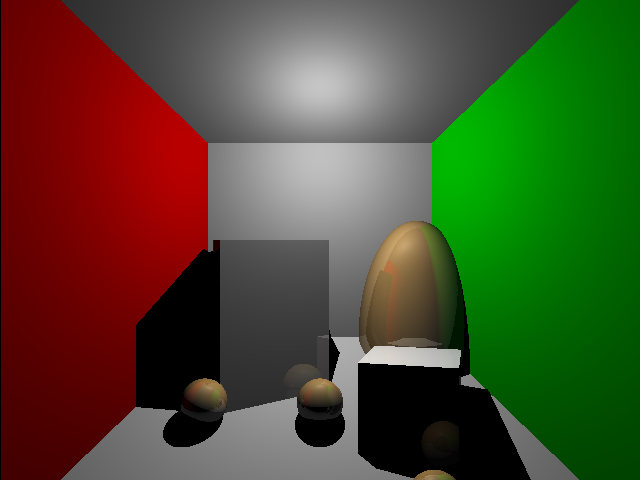
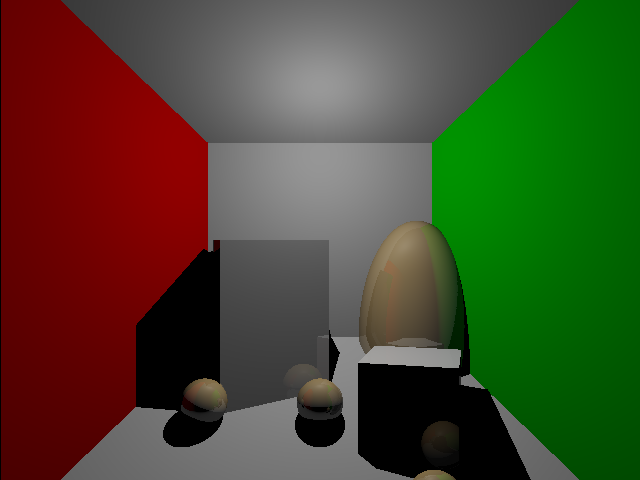
Work in progress: Nishita's atmoshpere rendering

diff --git a/Vertex Raytracer/Raytracer/src/Raytracer.cpp b/Vertex Raytracer/Raytracer/src/Raytracer.cpp
@@ -26,8 +26,6 @@ glm::vec3 Raytracer::illuminate(int x_idx, int y_idx, Ray* reflection_ray)
 
     Ray ray = (reflection_ray == nullptr) ? m_scene->cam->rayFromCamera(y_idx, x_idx) : *reflection_ray;
 
-    bool isIntersection = checkSpheresIntersections(ray) | checkTrianglesIntersections(ray);
-
     /* Calculate atmoshperic scattering */
     /** Does the ray intersect the planetory body ? (the intersection test is against the Earth here 
       * not against the atmosphere).If the ray intersects the Earth body and that the intersection is ahead of us,
@@ -37,10 +35,24 @@ glm::vec3 Raytracer::illuminate(int x_idx, int y_idx, Ray* reflection_ray)
       * compute where this primary ray intersects the atmosphere and we limit the max t range  of the ray to
       * the point where it leaves the atmosphere. 
       */
-    // 1) Check if ray intersects with a planet
+    if(m_scene->atmosphere != nullptr)
+    {
+        // 1) Check if ray intersects with a planet
+        float t0, t1, tMax = std::numeric_limits<float>::max();
+        if (ray.checkIntersection(m_scene->atmosphere->planet_radius, t0, t1) && t1 > 0.0f)
+        {
+            tMax = glm::max(0.0f, t0);
+            m_background_color = glm::vec3(1, 0, 0);
+        }
+        else
+        {
+            /* The *viewing or camera ray* is bounded to the range[0:tMax] */
+            // 2) Compute atmosphere's incident light
+            m_background_color = glm::vec3(1, 0, 1);//m_scene->atmosphere->computeIncidentLight(ray, 0, tMax);
+        }
+    }
 
-    /* The *viewing or camera ray* is bounded to the range[0:tMax] */
-    // 2) Compute atmosphere's incident light
+    bool isIntersection = checkSpheresIntersections(ray) | checkTrianglesIntersections(ray);
 
     /* Calculate light */
     if (isIntersection)
@@ -52,7 +64,7 @@ glm::vec3 Raytracer::illuminate(int x_idx, int y_idx, Ray* reflection_ray)
         glm::vec3 light_color      = calcLight      (ray, hit_pos);
         glm::vec3 reflection_color = calcReflections(ray, hit_pos);
 
-        return light_color + reflection_color + m_objects_material.ambient + m_objects_material.emission;
+        return light_color + reflection_color + m_objects_material.ambient + m_objects_material.emission + m_background_color;
     }
 
     /* return background color */

diff --git a/Vertex Raytracer/Raytracer/src/Atmosphere.h b/Vertex Raytracer/Raytracer/src/Atmosphere.h
@@ -6,16 +6,16 @@
 class Atmosphere
 {
 public:
-    Atmosphere(glm::vec3 _sun_direction = glm::vec3(0, 1, 0), 
-               float _earth_radius      = 6360e3,
-               float _atmosphere_radius = 6420e2,
-               float _h_rayleigh        = 7994,
-               float _h_mie             = 1200)
-               : sun_direction    (_sun_direction),
-                 planet_radius    (_earth_radius),
-                 atmosphere_radius(_atmosphere_radius),
-                 h_rayleigh       (_h_rayleigh),
-                 h_mie            (_h_mie) {}
+    explicit Atmosphere(glm::vec3 _sun_direction = glm::vec3(0, 1, 0), 
+                        float _earth_radius      = 6360e3f,
+                        float _atmosphere_radius = 6420e2f,
+                        float _h_rayleigh        = 7994.0f,
+                        float _h_mie             = 1200.0f)
+                        : sun_direction    (glm::normalize(_sun_direction)),
+                          planet_radius    (_earth_radius),
+                          atmosphere_radius(_atmosphere_radius),
+                          h_rayleigh       (_h_rayleigh),
+                          h_mie            (_h_mie) {}
 
     ~Atmosphere() {}
 

diff --git a/Vertex Raytracer/Raytracer/src/Framebuffer.cpp b/Vertex Raytracer/Raytracer/src/Framebuffer.cpp
@@ -70,9 +70,24 @@ void Framebuffer::process(Scene& scene, int left, int right)
 
         glm::vec3 c = raytracer.illuminate(jj, ii);
         
-        color.rgbRed   = static_cast<BYTE>(c.r * 255.0f + 0.5f);
-        color.rgbGreen = static_cast<BYTE>(c.g * 255.0f + 0.5f);
-        color.rgbBlue  = static_cast<BYTE>(c.b * 255.0f + 0.5f);
+        if(!use_tone_mapping)
+        {
+            static float exposure = 1.0f;
+            static float gamma    = 1.2f;
+
+            c = glm::vec3(1.0f) - glm::exp(-c * exposure);
+            c = glm::pow(c, glm::vec3(1.0f / gamma));
+            
+            color.rgbRed   = static_cast<BYTE>(c.r * 255.0f + 0.5f);
+            color.rgbGreen = static_cast<BYTE>(c.g * 255.0f + 0.5f);
+            color.rgbBlue  = static_cast<BYTE>(c.b * 255.0f + 0.5f);
+        }
+        else
+        {
+            color.rgbRed   = static_cast<BYTE>(c.r * 255.0f + 0.5f);
+            color.rgbGreen = static_cast<BYTE>(c.g * 255.0f + 0.5f);
+            color.rgbBlue  = static_cast<BYTE>(c.b * 255.0f + 0.5f);
+        }
 
         FreeImage_SetPixelColor(m_image, m_width - jj, ii, &color);
 

diff --git a/Vertex Raytracer/Raytracer/src/Scene.cpp b/Vertex Raytracer/Raytracer/src/Scene.cpp
@@ -8,7 +8,8 @@
 #include "Scene.h"
 
 Scene::Scene()
-    : cam(nullptr)
+    : atmosphere(nullptr),
+      cam(nullptr)
 {
     maxdepth = 5;
     width = 0;
@@ -17,6 +18,11 @@ Scene::Scene()
 
 Scene::~Scene()
 {
+    if (atmosphere != nullptr)
+    {
+        delete atmosphere;
+    }
+
     if (cam != nullptr)
     {
         delete cam;
@@ -80,6 +86,15 @@ void Scene::loadScene(std::string filename)
                     if (isValidInput)
                     {
                         outputFilename = output;
+                    }
+                }
+                else if (cmd == "atmosphere")
+                {
+                    isValidInput = true;//readvals(s, 10, values);
+
+                    if (isValidInput)
+                    {
+                        atmosphere = new Atmosphere();
                     }
                 }
                 else if (cmd == "camera")

diff --git a/Vertex Raytracer/Raytracer/src/Atmosphere.cpp b/Vertex Raytracer/Raytracer/src/Atmosphere.cpp
@@ -26,7 +26,7 @@ glm::vec3 Atmosphere::computeIncidentLight(const Ray & ray, float t_min, float t
     uint32_t num_samples_light = 8;
 
     float segment_length = (t_max - t_min) / num_samples;
-    float t_current      = t_min;
+    float t_current      = 0;//t_min;
 
     /* Rayleight and Mie contributions */
     glm::vec3 sum_r(0.0f), sum_m(0.0f);
@@ -67,7 +67,7 @@ glm::vec3 Atmosphere::computeIncidentLight(const Ray & ray, float t_min, float t
             glm::vec3 sample_position_light = sample_position + (t_current_light + segment_length_light * 0.5f) * sun_direction;
             float height_light = sample_position_light.length() - planet_radius;
 
-            if(height_light < 0)
+            if(height_light >= 0)
             {
                 break;
             }

diff --git a/Vertex Raytracer/Raytracer/src/Camera.cpp b/Vertex Raytracer/Raytracer/src/Camera.cpp
@@ -34,7 +34,7 @@ Ray Camera::rayFromCamera(int i, int j) const
     
     float a = tanFovx * ((jj - (img_width  * 0.5f)) / (img_width  * 0.5f));
     float b = tanFovy * (((img_height * 0.5f) - ii) / (img_height * 0.5f));
-    
+   
     glm::vec3 s = glm::normalize(u * a + v * b - n);
    
     return Ray(eye, s);

diff --git a/Vertex Raytracer/Raytracer/src/Raytracer.h b/Vertex Raytracer/Raytracer/src/Raytracer.h
@@ -10,8 +10,6 @@ public:
     explicit Raytracer(Scene& scene);
     ~Raytracer();
 
-    void setBackgroundColor(float r, float g, float b) { m_background_color = glm::vec3(r, g, b); }
-
     glm::vec3 illuminate(int x_idx, int y_idx, Ray* reflection_ray = nullptr);
 
 private:

diff --git a/Vertex Raytracer/Raytracer/src/Scene.h b/Vertex Raytracer/Raytracer/src/Scene.h
@@ -2,6 +2,7 @@
 
 #include <vector>
 
+#include "Atmosphere.h"
 #include "Camera.h"
 #include "Primitives.h"
 #include "Light.h"
@@ -23,6 +24,7 @@ public:
 
     std::vector<Light> lights;
 
+    Atmosphere * atmosphere;
     Camera * cam;
 
     std::string outputFilename;

diff --git a/Vertex Raytracer/Raytracer/src/main.cpp b/Vertex Raytracer/Raytracer/src/main.cpp
@@ -16,7 +16,7 @@ int main(int argc, char * argv[])
 
         scene.loadScene(argv[1]);
     #else
-        scene.loadScene("subm/scene6.test");
+        scene.loadScene("subm/atmosphere1.test");
     #endif
 
     Framebuffer framebuffer(scene.width, scene.height);

diff --git a/Vertex Raytracer/Raytracer/src/Framebuffer.h b/Vertex Raytracer/Raytracer/src/Framebuffer.h
@@ -12,6 +12,8 @@ public:
 
     void raytrace(Scene& scene, const std::string& scene_file_name);
 
+    bool use_tone_mapping = true;
+
 private:
     const int BPP = 24; //cause three 8 bit RGB values
 

diff --git a/Vertex Raytracer/Raytracer/src/Ray.h b/Vertex Raytracer/Raytracer/src/Ray.h
@@ -2,7 +2,6 @@
 
 #include <glm/glm.hpp>
 #include "Primitives.h"
-#include "Atmosphere.h"
 
 class Ray
 {
